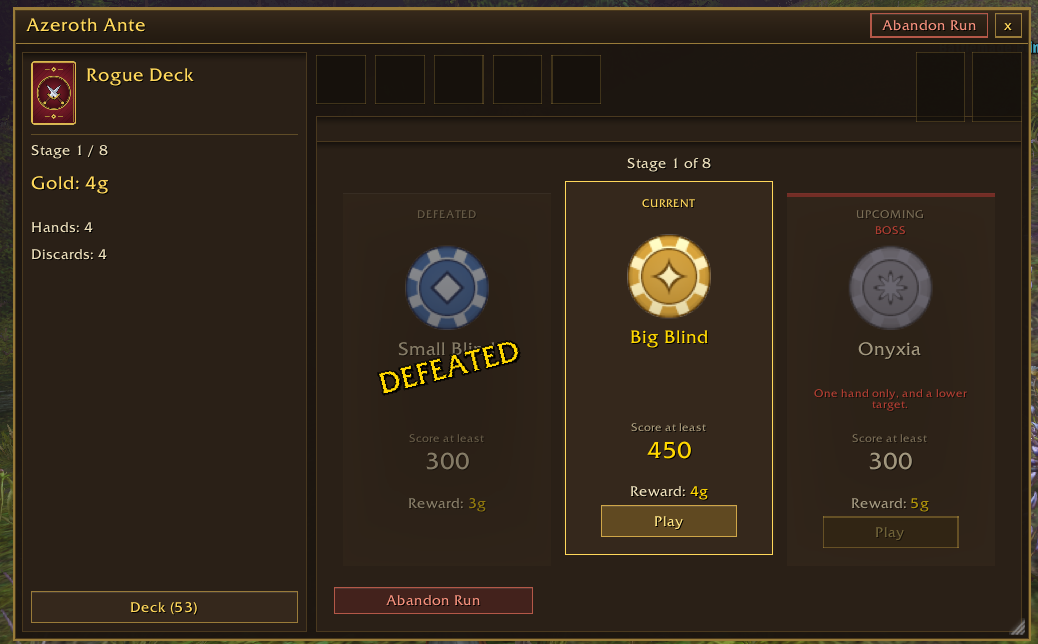
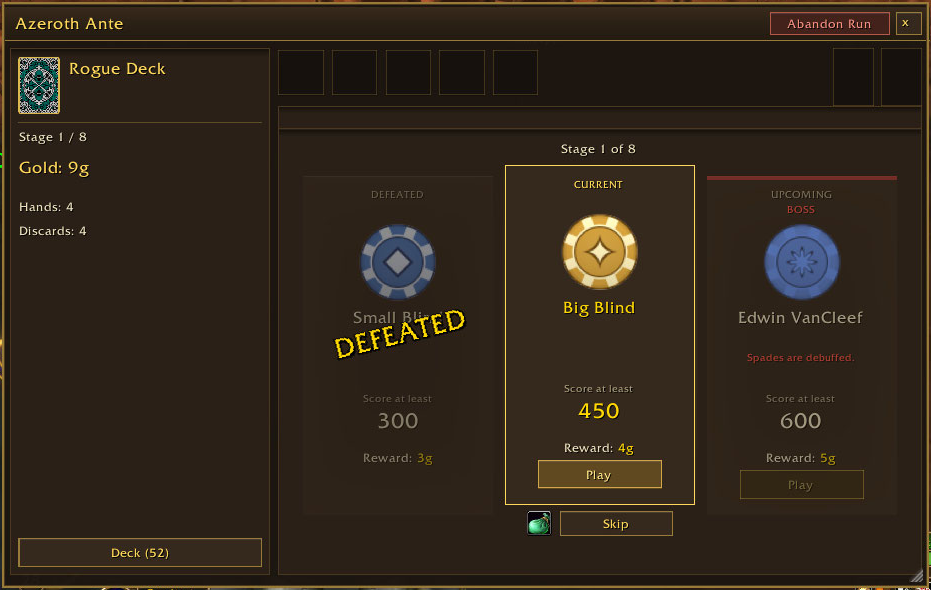
docs: new README screenshots
Fresh in-game captures at the current card size: the deck screen with
the stake picker, blind select with a skip tag, a hand of court cards
being scored, and the shop. The old pack screenshot (with the old pack
names and no court art) is dropped until a new one is taken.

Claude-Session: https://claude.ai/code/session_0111s9FFYnp8eg8SbkfNjWmi

diff --git a/README.md b/README.md
@@ -18,24 +18,24 @@ Mouse controls only; no key bindings.
 
 ## Screenshots
 
-Playing a hand: select up to five cards and the sidebar previews the hand and
-its chips × mult.
+Choosing a deck: fifteen decks, each with its own painted back and rule, and the stake to
+play it at.
 
-![Playing a hand](docs/screenshots/play.png)
+![Choosing a deck](docs/screenshots/deck-select.png)
 
-Choosing a blind: each stage is a Small Blind, a Big Blind and a boss with its
-own rule.
+Choosing a blind: each stage is a Small Blind, a Big Blind and a boss with its own rule.
+Skip the small or big blind for the tag shown beside Skip.
 
 ![Blind select](docs/screenshots/blind-select.png)
 
-The shop after a cleared blind: payout, trinkets, packs and a voucher.
+Playing a hand: Jacks, Queens and Kings are double-ended court cards of Warcraft
+characters, and the sidebar shows the hand's chips × mult as it scores.
+
+![Playing a hand](docs/screenshots/play.png)
+
+The shop after a cleared blind: payout, cards, packs and a voucher.
 
 ![Shop](docs/screenshots/shop.png)
-
-Opening a pack: here a Large Darkmoon Card Bundle with an enhanced card and an
-edition.
-
-![Opening a pack](docs/screenshots/pack.png)
 
 ## Install
 
